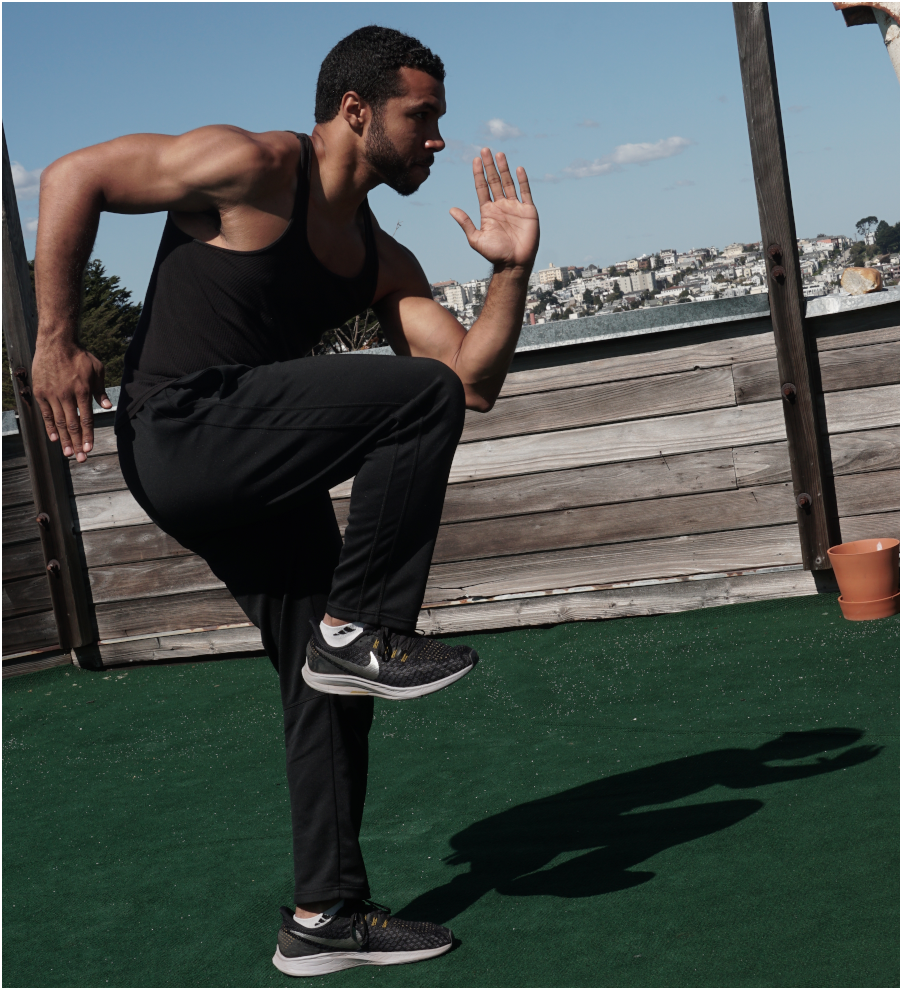
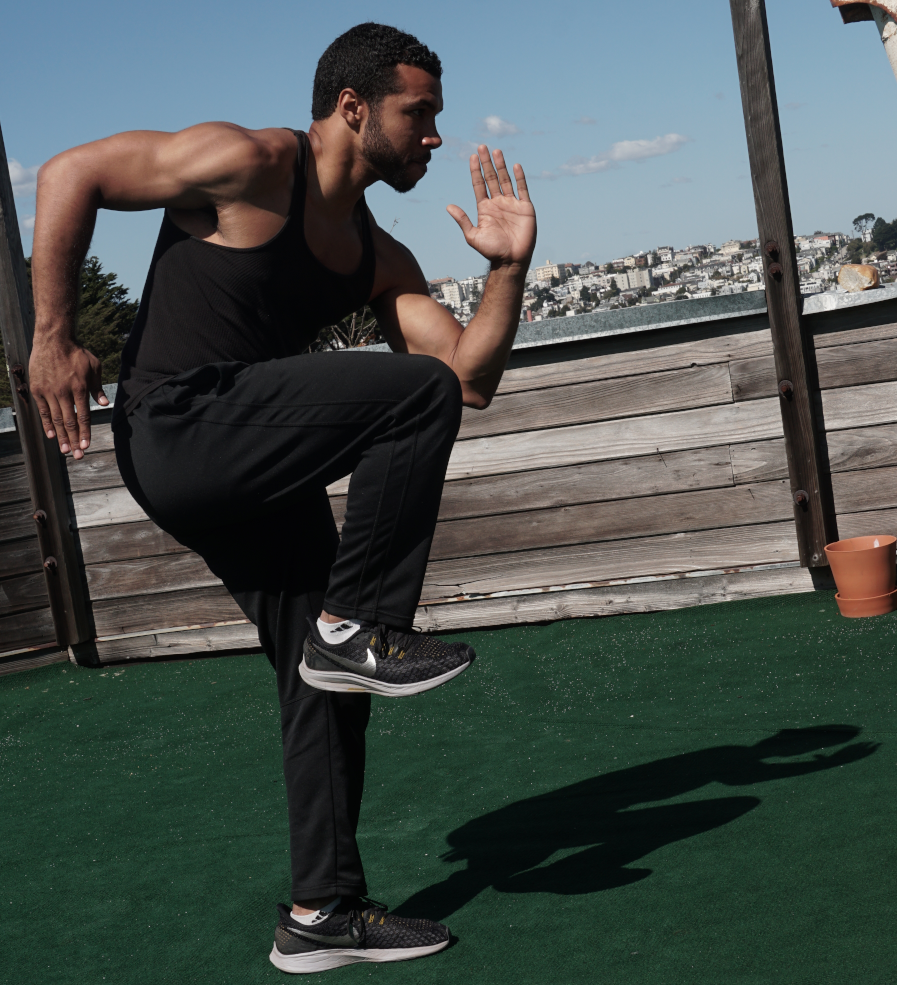
fixed pic

diff --git a/assets/css/main.css b/assets/css/main.css
@@ -1708,11 +1708,19 @@ input, select, textarea {
 			width: 50%;
 		}
 
+		.program-3519 {
+			height: 300px;
+		}
+
 		#DSC03494 {
 			height: 250px;
 			width: 250px;
 		}
 
+		#DSC03519 {
+			height: 300px;
+			width: 250px;
+		}
 
 		.desc-text{
 
@@ -1739,8 +1747,17 @@ input, select, textarea {
 				width: 140px;
 			}
 
+			#DSC03519 {
+				height: 170px;
+				width: 140px;
+			}
+
 			.program {
 				height: 140px;
+			}
+
+			.program-3519 {
+				height: 170px;
 			}
 
 			h3 {
@@ -1758,16 +1775,25 @@ input, select, textarea {
 				height: 130px;
 				width: 130px;
 			}
+
+			#DSC03519 {
+				height: 160px;
+				width: 130px;
+			}
 			.program {
 				height: 130px;
 				width: 130px;
 			}
+			
+			.program-3519 {
+				height: 160px;
+			}
 
 			h3 {
-				font-size: .65rem;
+				font-size: .9rem;
 				text-align: left;
 			}
-				.right {
+			.right {
 				text-align: left;
 			}
 			.desc-text{

diff --git a/index.html b/index.html
@@ -62,7 +62,7 @@
 									<div class="program pic"><img src="images/program/DSC03496.png" id="DSC03494" alt="" /></div>
 									<div class="program desc"><h3 class = "desc-text left">Strengthen Muscles</h3></div>
 									<div class="program desc"><h3 class = "desc-text right">Build Endurance</h3></div>
-									<div class="program pic"><img src="images/program/DSC03519.png" id="DSC03494" alt="" /></div>
+									<div class="program-3519 pic"><img src="images/program/DSC03519.png" id="DSC03519" alt="" /></div>
 									<div class="program pic"><img src="images/program/DSC03503.png" id="DSC03494" alt="" /></div>
 									<div class="program desc"><h3 class="desc-text left">Gain Flexibility</h3></div>
 									<div class="program desc"><h3 class="desc-text right">Tighten Core</h3></div>
